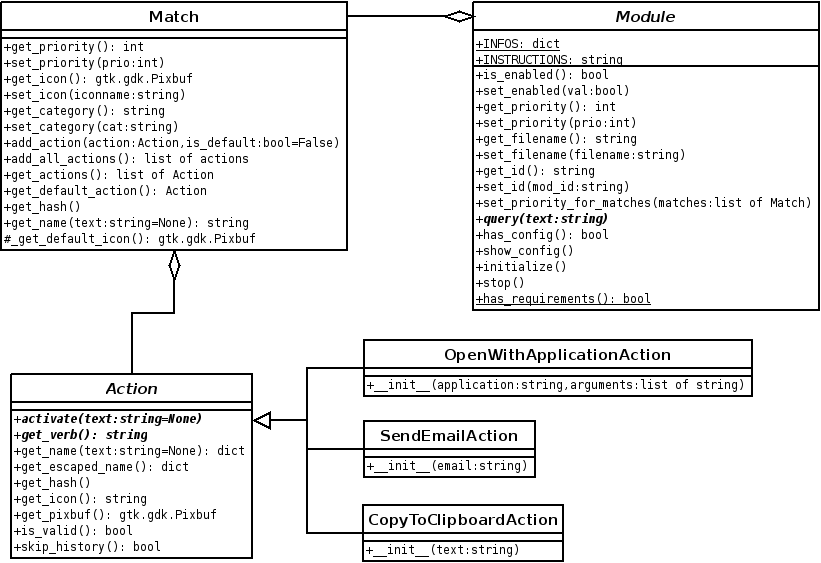
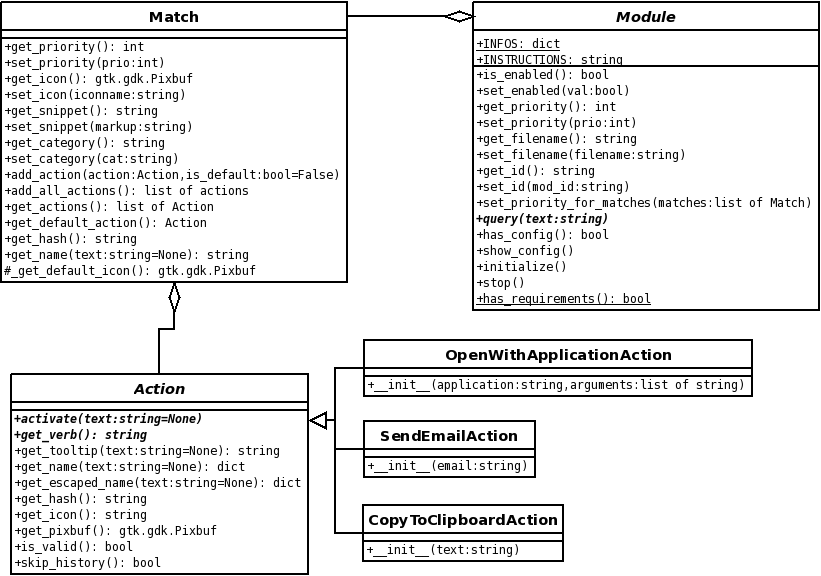
Added documentation about (get|set)_snippet and get_tooltip methods. Removed location where the modules are located, because the directory changed in 2.24.
svn path=/trunk/; revision=2390

Changed region(s): [[0.0, 0.0, 1.0, 1.0], [0.0, 0.0, 0.4263, 0.5737], [0.4263, 0.0, 0.5786, 0.0302]]

diff --git a/doc/docbook-xsl.css b/doc/docbook-xsl.css
@@ -1,0 +1,271 @@
+/*
+  CSS stylesheet for XHTML produced by DocBook XSL stylesheets.
+  Tested with XSL stylesheets 1.61.2, 1.67.2
+*/
+
+span.strong {
+  font-weight: bold;
+}
+
+body blockquote {
+  margin-top: .75em;
+  line-height: 1.5;
+  margin-bottom: .75em;
+}
+
+html body {
+  margin: 1em 5% 1em 5%;
+  line-height: 1.2;
+}
+
+body div {
+  margin: 0;
+}
+
+h1, h2, h3, h4, h5, h6,
+div.toc p b,
+div.list-of-figures p b,
+div.list-of-tables p b,
+div.abstract p.title
+{
+  color: #527bbd;
+  font-family: tahoma, verdana, sans-serif;
+}
+
+div.toc p:first-child,
+div.list-of-figures p:first-child,
+div.list-of-tables p:first-child,
+div.example p.title
+{
+  margin-bottom: 0.2em;
+}
+
+body h1 {
+  margin: .0em 0 0 -4%;
+  line-height: 1.3;
+  border-bottom: 2px solid silver;
+}
+
+body h2 {
+  margin: 0.5em 0 0 -4%;
+  line-height: 1.3;
+  border-bottom: 2px solid silver;
+}
+
+body h3 {
+  margin: .8em 0 0 -3%;
+  line-height: 1.3;
+}
+
+body h4 {
+  margin: .8em 0 0 -3%;
+  line-height: 1.3;
+}
+
+body h5 {
+  margin: .8em 0 0 -2%;
+  line-height: 1.3;
+}
+
+body h6 {
+  margin: .8em 0 0 -1%;
+  line-height: 1.3;
+}
+
+body hr {
+  border: none; /* Broken on IE6 */
+}
+div.footnotes hr {
+  border: 1px solid silver;
+}
+
+div.navheader th, div.navheader td, div.navfooter td {
+  font-family: sans-serif;
+  font-size: 0.9em;
+  font-weight: bold;
+  color: #527bbd;
+}
+div.navheader img, div.navfooter img {
+  border-style: none;
+}
+div.navheader a, div.navfooter a {
+  font-weight: normal;
+}
+div.navfooter hr {
+  border: 1px solid silver;
+}
+
+body td {
+  line-height: 1.2
+}
+
+body th {
+  line-height: 1.2;
+}
+
+ol {
+  line-height: 1.2;
+}
+
+ul, body dir, body menu {
+  line-height: 1.2;
+}
+
+html {
+  margin: 0; 
+  padding: 0;
+}
+
+body h1, body h2, body h3, body h4, body h5, body h6 {
+  margin-left: 0
+} 
+
+body pre {
+  margin: 0.5em 10% 0.5em 1em;
+  line-height: 1.0;
+  color: navy;
+}
+
+tt.literal, code.literal {
+  color: navy;
+}
+
+.programlisting, .screen {
+  border: 1px solid silver;
+  background: #f4f4f4;
+  margin: 0.5em 10% 0.5em 0;
+  padding: 0.5em 1em;
+}
+
+div.sidebar {
+  background: #ffffee;
+  margin: 1.0em 10% 0.5em 0;
+  padding: 0.5em 1em;
+  border: 1px solid silver;
+}
+div.sidebar * { padding: 0; }
+div.sidebar div { margin: 0; }
+div.sidebar p.title {
+  font-family: sans-serif;
+  margin-top: 0.5em;
+  margin-bottom: 0.2em;
+}
+
+div.bibliomixed {
+  margin: 0.5em 5% 0.5em 1em;
+}
+
+div.glossary dt {
+  font-weight: bold;
+}
+div.glossary dd p {
+  margin-top: 0.2em;
+}
+
+dl {
+  margin: .8em 0;
+  line-height: 1.2;
+}
+
+dt {
+  margin-top: 0.5em;
+}
+
+dt span.term {
+  font-style: normal;
+}
+
+div.variablelist dd p {
+  margin-top: 0;
+}
+
+div.itemizedlist li, div.orderedlist li {
+  margin-left: -0.8em;
+  margin-top: 0.5em;
+}
+
+ul, ol {
+    list-style-position: outside;
+}
+
+div.sidebar ul, div.sidebar ol {
+    margin-left: 2.8em;
+}
+
+div.itemizedlist p.title,
+div.orderedlist p.title,
+div.variablelist p.title
+{
+  margin-bottom: -0.8em;
+}
+
+div.revhistory table {
+  border-collapse: collapse;
+  border: none;
+}
+div.revhistory th {
+  border: none;
+  color: #527bbd;
+  font-family: tahoma, verdana, sans-serif;
+}
+div.revhistory td {
+  border: 1px solid silver;
+}
+
+/* Keep TOC and index lines close together. */
+div.toc dl, div.toc dt,
+div.list-of-figures dl, div.list-of-figures dt,
+div.list-of-tables dl, div.list-of-tables dt,
+div.indexdiv dl, div.indexdiv dt
+{
+  line-height: normal;
+  margin-top: 0;
+  margin-bottom: 0;
+}
+
+/*
+  Table styling does not work because of overriding attributes in
+  generated HTML.
+*/
+div.table table,
+div.informaltable table
+{
+    margin-left: 0;
+    margin-right: 5%;
+    margin-bottom: 0.8em;
+}
+div.informaltable table
+{
+    margin-top: 0.4em
+}
+div.table thead,
+div.table tfoot,
+div.table tbody,
+div.informaltable thead,
+div.informaltable tfoot,
+div.informaltable tbody
+{
+    /* No effect in IE6. */
+    border-top: 2px solid #527bbd;
+    border-bottom: 2px solid #527bbd;
+}
+div.table thead, div.table tfoot,
+div.informaltable thead, div.informaltable tfoot
+{
+    font-weight: bold;
+}
+
+div.mediaobject img {
+    border: 1px solid silver;
+    margin-bottom: 0.8em;
+}
+div.figure p.title,
+div.table p.title
+{
+  margin-top: 1em;
+  margin-bottom: 0.4em;
+}
+
+@media print {
+  div.navheader, div.navfooter { display: none; }
+}
